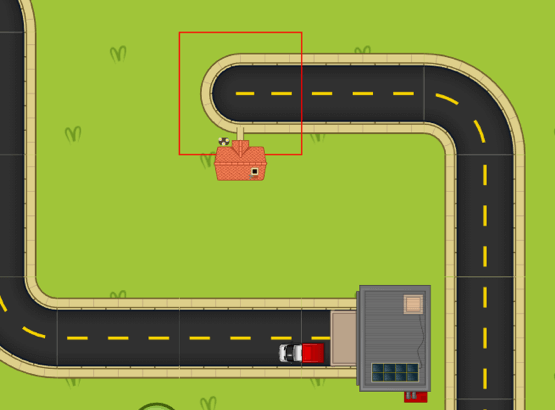
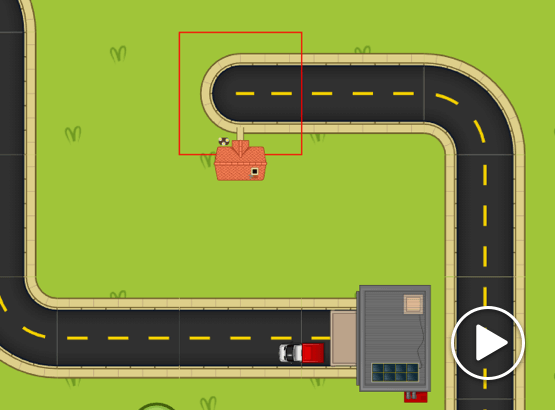
feat: add videos for play and educate pages

Changed region(s): [[0.8577, 0.7317, 0.9495, 0.9073], [0.7964, 0.7902, 0.9189, 0.9366], [0.827, 0.761, 0.8577, 0.7902]]

diff --git a/portal/templates/portal/teach.html b/portal/templates/portal/teach.html
@@ -84,11 +84,9 @@
                 </div>
             </div>
             <div class="col-sm-6">
-                <img src="{% static 'portal/img/thumbnail_educate_resources_and_progress_tracking.png' %}">
-                <!-- TODO: to add the video, replace the link below and uncomment
-                <a href="https://www.youtube-nocookie.com/embed/xP-U-MJLk-g?rel=0&amp;autoplay=1" class="youtube">
-                    <img title="Watch Video" alt="Watch Video" src="{% static 'portal/img/thumbnail_intro_c4l.jpg' %}">
-                </a> -->
+                <a href="https://www.youtube-nocookie.com/embed/tM5nKPYlz74?rel=0&amp;autoplay=1" class="youtube">
+                    <img src="{% static 'portal/img/thumbnail_educate_resources.png' %}">
+                </a>
             </div>
         </div>
     </div>
@@ -98,7 +96,9 @@
     <div class="container">
         <div class="row d-flex">
             <div class="col-sm-6">
-                <img src="{% static 'portal/img/thumbnail_educate_rapid_router.png' %}">
+                <a href="https://www.youtube-nocookie.com/embed/hv0fM0twrOE?rel=0&amp;autoplay=1" class="youtube">
+                    <img src="{% static 'portal/img/thumbnail_educate_rapid_router.png' %}">
+                </a>
             </div>
             <div class="col-sm-6 d-flex flex-column">
                 <div class="flex-grow-1">
@@ -159,7 +159,9 @@
                 </div>
             </div>
             <div class="col-sm-6">
-                <img src="{% static 'portal/img/thumbnail_educate_kurono.png' %}">
+                <a href="https://www.youtube-nocookie.com/embed/6iiksCtIIGA?rel=0&amp;autoplay=1" class="youtube">
+                    <img src="{% static 'portal/img/thumbnail_educate_kurono.png' %}">
+                </a>
             </div>
         </div>
     </div>

diff --git a/portal/templates/portal/play.html b/portal/templates/portal/play.html
@@ -39,11 +39,9 @@
             </div>
         </div>
         <div class="col-sm-6">
-            <img src="{% static 'portal/img/thumbnail_play_rapid_router.png' %}">
-            <!-- TODO: to add the video, replace the link below and uncomment
-            <a href="https://www.youtube-nocookie.com/embed/PQFyF3R6Xts?rel=0&amp;autoplay=1" class="youtube">
-                <img title="Watch Video" alt="Watch Video" src="{% static 'portal/img/thumbnail_intro_rr.jpg' %}">
-            </a> -->
+            <a href="https://www.youtube-nocookie.com/embed/w0Pw_XikQSs?rel=0&amp;autoplay=1" class="youtube">
+                <img src="{% static 'portal/img/thumbnail_play_rapid_router.png' %}">
+            </a>
         </div>
     </div>
 </div>
@@ -96,7 +94,9 @@
             </div>
         </div>
         <div class="col-sm-6">
-            <img src="{% static 'portal/img/thumbnail_play_kurono.png' %}">
+            <a href="https://www.youtube-nocookie.com/embed/m-JYukDZlL8?rel=0&amp;autoplay=1" class="youtube">
+                <img src="{% static 'portal/img/thumbnail_play_kurono.png' %}">
+            </a>
         </div>
     </div>
 </div>
